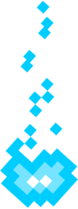
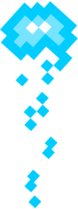
cria naves aleatórias

diff --git a/src/niveis.py b/src/niveis.py
@@ -2,74 +2,29 @@ import pandas as pd
 import pygame
 from naveInimiga import NaveInimiga
 from powerUp import PowerUp
-
-
-def nivel1(surface):
-    nave_inimiga1 = NaveInimiga(
-        imagem= "../assets/images/naveEspacial.png",
-        velocidade=0.05,
-        posicao=[300, 0], 
-        pontos_vida=100, 
-        potencia_tiro=10, 
-        tempo_recarga=1.5,
-        tempo_parado=5000
-    )
-
-    nave_inimiga2 = NaveInimiga(
-        imagem= "../assets/images/naveEspacial.png",
-        velocidade=0.05,
-        posicao=[400, 0], 
-        pontos_vida=100, 
-        potencia_tiro=10, 
-        tempo_recarga=1.5,
-        tempo_parado=5000
-    )
-
-    nave_inimiga3 = NaveInimiga(
-        imagem= "../assets/images/naveEspacial.png",
-        velocidade=0.05,
-        posicao=[500, 0], 
-        pontos_vida=100, 
-        potencia_tiro=10, 
-        tempo_recarga=1.5,
-        tempo_parado=5000
-    )
-
-    nave_inimiga4 = NaveInimiga(
-        imagem= "../assets/images/naveEspacial.png",
-        velocidade=0.05,
-        posicao=[600, 0], 
-        pontos_vida=100, 
-        potencia_tiro=10, 
-        tempo_recarga=1.5,
-        tempo_parado=5000
-    )
-
+import random
     
-    nave_inimiga1.retacionarImagem()
-    nave_inimiga2.retacionarImagem()
-    nave_inimiga3.retacionarImagem()
-    nave_inimiga4.retacionarImagem()
-
-    
-    nave_inimigo_redimensionada = pygame.transform.scale(nave_inimiga1.imagem, (70, 70))
-    surface.blit(nave_inimigo_redimensionada, nave_inimiga1.posicao)
-
-    nave_inimiga1.rect = nave_inimigo_redimensionada.get_rect(topleft=nave_inimiga1.posicao) 
-    nave_inimigo_redimensionada2 = pygame.transform.scale(nave_inimiga2.imagem, (70, 70))
-    surface.blit(nave_inimigo_redimensionada2, nave_inimiga2.posicao)
-    nave_inimiga2.rect = nave_inimigo_redimensionada2.get_rect(topleft=nave_inimiga2.posicao) 
-    nave_inimigo_redimensionada3 = pygame.transform.scale(nave_inimiga3.imagem, (70, 70))
-    surface.blit(nave_inimigo_redimensionada3, nave_inimiga3.posicao)
-    nave_inimiga3.rect = nave_inimigo_redimensionada3.get_rect(topleft=nave_inimiga3.posicao) 
-    nave_inimigo_redimensionada4 = pygame.transform.scale(nave_inimiga4.imagem, (70, 70))
-    surface.blit(nave_inimigo_redimensionada4, nave_inimiga4.posicao)
-    nave_inimiga4.rect = nave_inimigo_redimensionada4.get_rect(topleft=nave_inimiga4.posicao) 
-
+def gerar_niveis(surface, quantidade_naves):
     naves_inimigas = []
-    naves_inimigas.append(nave_inimiga1)
-    naves_inimigas.append(nave_inimiga2)
-    naves_inimigas.append(nave_inimiga3)
-    naves_inimigas.append(nave_inimiga4)
-    return naves_inimigas
+    for _ in range(quantidade_naves):
+        x_posicao = random.randint(0, 800)  
+
+        nave_inimiga = NaveInimiga(
+            imagem = "../assets/images/naveEspacial.png",
+            velocidade = 0.1,
+            posicao = [x_posicao, -100],  
+            pontos_vida = 100,
+            potencia_tiro = 10,
+            tempo_recarga = 1.5,
+            tempo_parado=pygame.time.get_ticks() + random.randint(2000, 5000)  
+        )
+        naves_inimigas.append(nave_inimiga)
     
+    # Desenha as naves na tela
+    for nave in naves_inimigas:
+        nave.retacionarImagem() 
+        nave_imagem_redimensionada = pygame.transform.scale(nave.imagem, (70, 70))
+        surface.blit(nave_imagem_redimensionada, nave.posicao)
+        nave.rect = nave_imagem_redimensionada.get_rect(topleft=nave.posicao)  # Atualiza a colisão
+
+    return naves_inimigas

diff --git a/src/naveInimiga.py b/src/naveInimiga.py
@@ -6,24 +6,25 @@ class NaveInimiga(NaveBase):
         super().__init__(imagem, velocidade, posicao, pontos_vida, potencia_tiro, tempo_recarga)
         self.tempo_parado = tempo_parado  
         self.tempo_parado_decorrido = 0  
-
         self.movendo = False
         self.rect = self.imagem.get_rect(topleft=posicao)
+
+
     def checar_colisao(self, nave):
         if self.rect.colliderect(nave.rect):
             print("Bateu na nave inimiga!")
 
 
-
     def atirar():
         raise NotImplementedError("Este método deve ser implementado")
+
 
     def destrutor():
         raise NotImplementedError("Este método deve ser implementado")
 
+
     def retacionarImagem(self):
         self.imagem = pygame.transform.rotate(self.imagem, 180)
-
 
 
     def update(self,nave):
@@ -36,8 +37,8 @@ class NaveInimiga(NaveBase):
         # Movimenta a nave para baixo se a flag estiver ativada
         if self.movendo:
             self.posicao[1] += self.velocidade  # Movimenta para baixo conforme a velocidade
-
             self.rect.topleft=self.posicao      #Atualiza a colisão da nave de acordo com a posição
+       
         self.checar_colisao(nave)
 
 

diff --git a/src/telas.py b/src/telas.py
@@ -80,7 +80,7 @@ def novo_jogo(surface, nave_jogador, naves_inimigas, screen_width, screen_height
         surface.blit(nave.imagem, nave.posicao) 
 
     for powerUp in powerUps:
-        if powerUp.coletado==False:
+        if powerUp.coletado == False:
             powerUp.draw(surface)
             powerUp.checar_colisao(nave_jogador)
 

diff --git a/src/milkway.py b/src/milkway.py
@@ -39,7 +39,7 @@ nave_jogador = NaveJogador(
     aprimoramentos={}
 )
 
-naves_inimigas = niveis.nivel1(surface)
+naves_inimigas = niveis.nivel1(surface, 5)
 
 def inicio_jogo():
     global estado

diff --git a/src/naveBase.py b/src/naveBase.py
@@ -13,4 +13,7 @@ class NaveBase(ObjetoJogo):
 
     def obterPotencia():
         raise NotImplementedError("Este método deve ser implementado")
+    
+    def update():
+        pass
 
